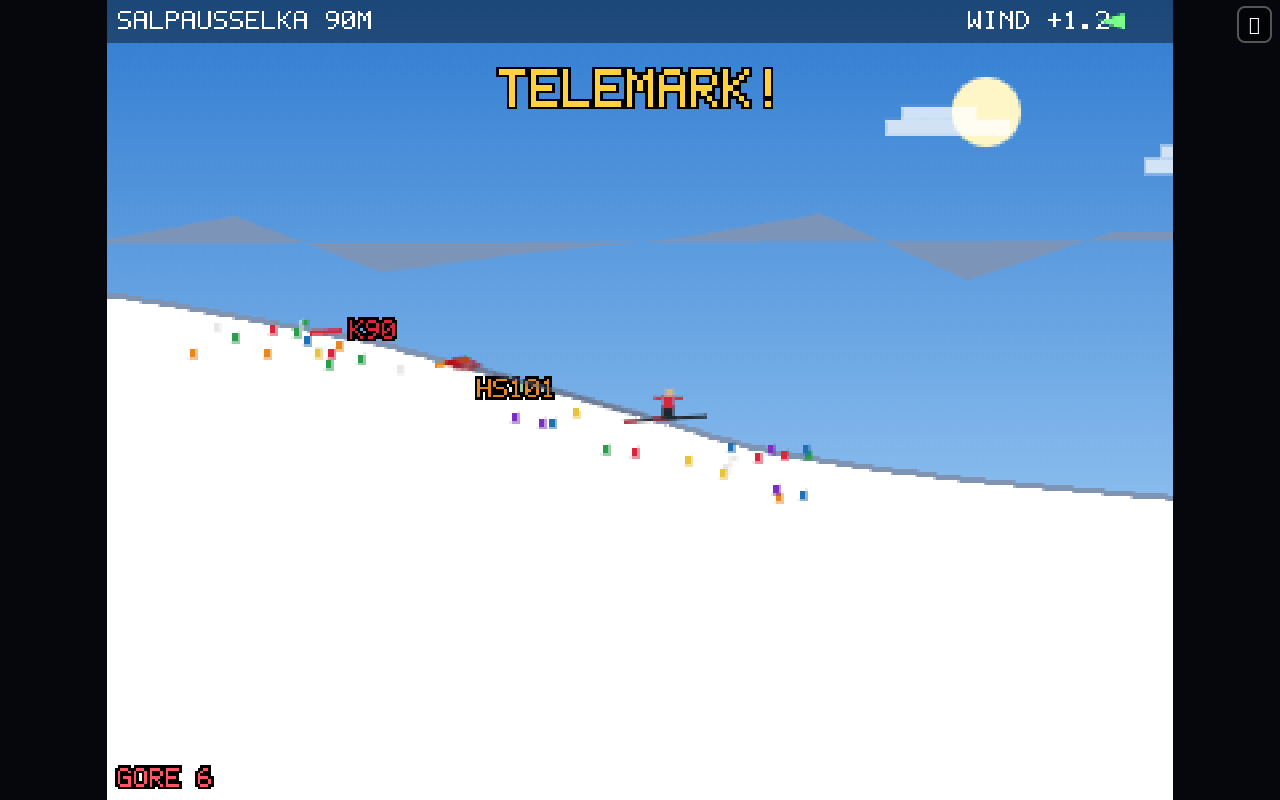
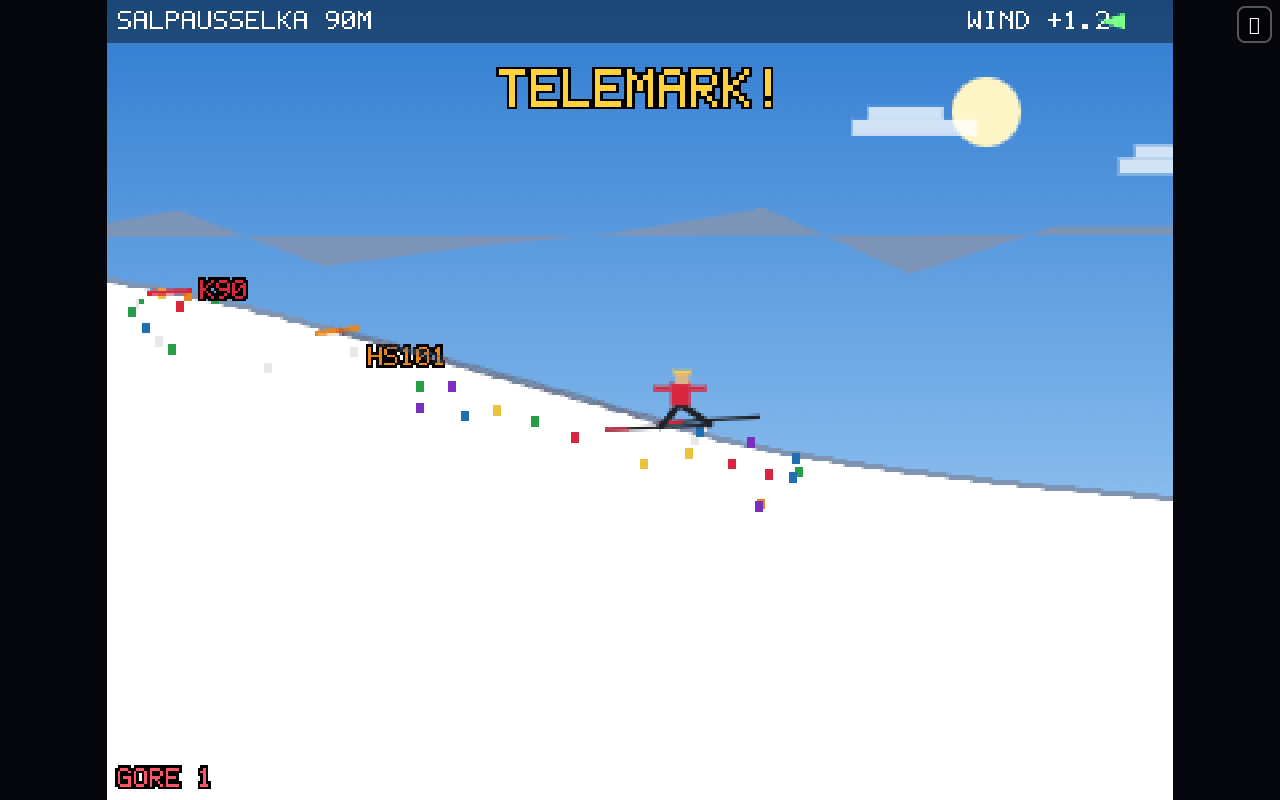
skijump: no explosion on contact, minimal blood, character up close
- crashing (including the over-lean flip) = one whole ragdoll athlete
  tumbling down + skis flying off; no mist clouds, no spray lines, no
  gore burst - just a small sprinkle of drops and a few ground stains;
  crash flash/shake cut hard
- clean landings now leave ~1 drop of blood; the spray at touchdown is
  snow, not meat
- zoomed in further again (K90 view ~67 m) and sprite scaled 2.6x so
  the jumper is unmistakable in every phase (helmet, suit, V-skis)
- telemark is a proper lunge: legs straddled over front/back skis,
  arms wide
- human-pilot sim still lands 15/15; touch + keyboard E2E green

diff --git a/examples/skijump/index.html b/examples/skijump/index.html
@@ -282,15 +282,15 @@ function tune(silent) {
 // ve = exit speed (m/s). Hill landing surface is generated from the
 // trajectory of a perfect jump (physics below), so tangents match by design.
 var HILLS = [
-  { n: 'POIKETON BACKYARD 8m', K: 8, ve: 7.6, zoom: 18, tree: 1.6, crowd: 0.15, dusk: true, tower: 'wood', wind: 0.8, skis: 1.8 },
-  { n: 'JUNNUJARVI 15m', K: 15, ve: 10.3, zoom: 13, tree: 1.3, crowd: 0.35, dusk: false, tower: 'wood', wind: 1.0, skis: 2.0 },
-  { n: 'KESAMAKI 25m', K: 25, ve: 13.2, zoom: 10, tree: 1.0, crowd: 0.55, dusk: false, tower: 'wood', wind: 1.2, skis: 2.1 },
-  { n: 'TORNIO 38m', K: 38, ve: 17.0, zoom: 7.5, tree: 0.9, crowd: 0.7, dusk: false, tower: 'steel', wind: 1.4, skis: 2.2 },
-  { n: 'LAAJIS 70m', K: 70, ve: 21.7, zoom: 5.5, tree: 0.7, crowd: 0.9, dusk: false, tower: 'steel', wind: 1.6, skis: 2.3 },
-  { n: 'SALPAUSSELKA 90m', K: 90, ve: 25.0, zoom: 4.6, tree: 0.55, crowd: 1.2, dusk: false, tower: 'steel', wind: 1.8, skis: 2.4 },
-  { n: 'PUIJO 110m', K: 110, ve: 26.6, zoom: 4.1, tree: 0.5, crowd: 1.35, night: true, tower: 'steel', wind: 1.9, skis: 2.45 },
-  { n: 'OLYMPIAMAKI 125m', K: 125, ve: 27.6, zoom: 3.8, tree: 0.45, crowd: 1.5, dusk: true, tower: 'steel', wind: 2.0, skis: 2.5 },
-  { n: 'PLANICA THE WILD 190m', K: 190, ve: 29.2, zoom: 3.4, tree: 0.4, crowd: 1.8, dusk: false, tower: 'steel', wind: 2.2, skis: 2.5 },
+  { n: 'POIKETON BACKYARD 8m', K: 8, ve: 7.6, zoom: 24, tree: 1.6, crowd: 0.15, dusk: true, tower: 'wood', wind: 0.8, skis: 1.8 },
+  { n: 'JUNNUJARVI 15m', K: 15, ve: 10.3, zoom: 17, tree: 1.3, crowd: 0.35, dusk: false, tower: 'wood', wind: 1.0, skis: 2.0 },
+  { n: 'KESAMAKI 25m', K: 25, ve: 13.2, zoom: 13, tree: 1.0, crowd: 0.55, dusk: false, tower: 'wood', wind: 1.2, skis: 2.1 },
+  { n: 'TORNIO 38m', K: 38, ve: 17.0, zoom: 10, tree: 0.9, crowd: 0.7, dusk: false, tower: 'steel', wind: 1.4, skis: 2.2 },
+  { n: 'LAAJIS 70m', K: 70, ve: 21.7, zoom: 7.2, tree: 0.7, crowd: 0.9, dusk: false, tower: 'steel', wind: 1.6, skis: 2.3 },
+  { n: 'SALPAUSSELKA 90m', K: 90, ve: 25.0, zoom: 6.0, tree: 0.55, crowd: 1.2, dusk: false, tower: 'steel', wind: 1.8, skis: 2.4 },
+  { n: 'PUIJO 110m', K: 110, ve: 26.6, zoom: 5.4, tree: 0.5, crowd: 1.35, night: true, tower: 'steel', wind: 1.9, skis: 2.45 },
+  { n: 'OLYMPIAMAKI 125m', K: 125, ve: 27.6, zoom: 5.0, tree: 0.45, crowd: 1.5, dusk: true, tower: 'steel', wind: 2.0, skis: 2.5 },
+  { n: 'PLANICA THE WILD 190m', K: 190, ve: 29.2, zoom: 4.4, tree: 0.4, crowd: 1.8, dusk: false, tower: 'steel', wind: 2.2, skis: 2.5 },
 ];
 var C_AERO = 0.0130;
 function ClOf(l) {
@@ -597,20 +597,18 @@ function addDecal(x, y, r, alpha) {
     c: GORE_TINTS[(Math.random() * 4) | 0] });
 }
 function goreSplat(x, y, v, scale) {
-  var n = Math.floor(clamp(v * v * 0.05, 4, 40) * scale);
+  // a modest sprinkle of blood on ground contact — garnish, not an explosion
+  var n = Math.floor(clamp(v * 0.25, 2, 10) * scale);
   for (var i = 0; i < n; i++) {
-    var a = Math.PI * (0.15 + Math.random() * 0.7); // up-spray arc (forward+up)
-    var sp = (2 + Math.random() * 8) * clamp(v / 20, 0.4, 1.8);
+    var a = Math.PI * (0.2 + Math.random() * 0.6); // forward-up spray arc
+    var sp = (1 + Math.random() * 4) * clamp(v / 22, 0.4, 1.2);
     blood.push({ x: x, y: y, vx: Math.cos(a) * sp * (Math.random() < 0.7 ? 1 : -0.4),
-      vy: -Math.sin(a) * sp, r: 0.5 + Math.random() * 1.4, life: 3 });
+      vy: -Math.sin(a) * sp, r: 0.4 + Math.random() * 1, life: 2.5 });
   }
-  mist.push({ x: x, y: y, r: 0.6 + scale, grow: 3 * clamp(v / 22, 0.5, 1.5), life: 0.35, a: 0.22 * scale });
-  for (var d = 0; d < 1 + 3 * scale; d++)
-    addDecal(x + (Math.random() - 0.3) * 2.5 * (1 + scale), y - 0.05, (0.2 + Math.random() * 0.9) * (0.6 + scale) * splatScale(), 0.6);
-  sprayLines.push({ x: x, y: y, t: 0, pow: scale * clamp(v / 22, 0.4, 1.2) });
+  for (var d = 0; d < Math.max(1, 2 * scale); d++)
+    addDecal(x + (Math.random() - 0.3) * 2 * (1 + scale), y - 0.05, (0.15 + Math.random() * 0.5) * (0.6 + scale) * splatScale(), 0.5);
   state.goreCount += n;
-  state.shake = Math.min(6, state.shake + 2 * scale);
-  state.flash = Math.max(state.flash, 0.12 * scale);
+  state.shake = Math.min(4, state.shake + scale);
   splatSnd();
   if (navigator.vibrate) navigator.vibrate([40, 20, 60]);
 }
@@ -621,13 +619,12 @@ function crash(kind) {
   if (!state.landed && state.hill) state.dist = state.hill.gAt(state.px).arc;
   var v = Math.hypot(state.pvx, state.pvy);
   var px = state.px, py = state.py;
-  // blood burst (the good part) + a ragdoll body that tumbles and slides —
-  // no body-part fireworks, just one athlete wrecking, skis flying off
-  var n = Math.floor(clamp(v * v * 0.12, 30, 110));
+  // small spray of blood and a ragdoll tumble — NO explosion, the body stays whole
+  var n = Math.floor(clamp(v * 0.7, 8, 20));
   for (var i = 0; i < n; i++) {
-    var a = Math.random() * TAU, sp = (2 + Math.random() * 12) * clamp(v / 22, 0.5, 1.6);
-    blood.push({ x: px, y: py, vx: Math.cos(a) * sp, vy: -Math.abs(Math.sin(a)) * sp - 1,
-      r: 0.5 + Math.random() * 1.8, life: 4 });
+    var a = Math.PI * (0.1 + Math.random() * 0.5), sp = (1 + Math.random() * 5) * clamp(v / 25, 0.5, 1.2);
+    blood.push({ x: px, y: py, vx: Math.cos(a) * sp, vy: -Math.abs(Math.sin(a)) * sp - 0.5,
+      r: 0.4 + Math.random() * 1.1, life: 3 });
   }
   parts.push({
     x: px, y: py - 0.3, vx: state.pvx * 0.55 + 1, vy: clamp(-state.pvy * 0.2, 0.5, 4),
@@ -645,13 +642,10 @@ function crash(kind) {
     rest: false, settle: 0, col: '#20242a',
   });
   state.partCount = 3;
-  for (var d = 0; d < 6; d++) addDecal(px + (Math.random() - 0.4) * 4, py - 0.05, (0.4 + Math.random() * 1.6) * splatScale(), 0.7);
-  mist.push({ x: px, y: py - 0.5, r: 1, grow: 4, life: 0.45, a: 0.3 });
-  sprayLines.push({ x: px, y: py, t: 0, pow: 1.4 });
-  goreSplat(px, py, v, 0.5);
+  for (var d = 0; d < 3; d++) addDecal(px + (Math.random() - 0.4) * 3, py - 0.05, (0.2 + Math.random() * 0.7) * splatScale(), 0.5);
   setMsg(kind, 2.2);
-  state.shake = 7; state.flash = 0.4;
-  state.timeScale = 0.32;
+  state.shake = 4; state.flash = 0.15;
+  state.timeScale = 0.35;
   state.goreCount += n;
   state.goreTotal = (state.goreTotal || 0) + state.goreCount;
   save();
@@ -874,8 +868,8 @@ function update(dtReal) {
       state.px += state.pvx * dt;
     }
     state.py = state.hill.gAt(state.px).y;
-    // ski tracks carved behind + a smear of blood off the skis
-    if (Math.random() < 0.25) addDecal(state.px - 0.2, g.y - 0.03, 0.1 + Math.random() * 0.2, 0.35);
+    // ski tracks carved behind + a faint trickle off the skis
+    if (Math.random() < 0.2) addDecal(state.px - 0.2, g.y - 0.03, 0.08 + Math.random() * 0.15, 0.3);
     if (Math.random() < 0.7) snowP.push({ x: state.px, y: state.py, vx: -2 - Math.random() * 3, vy: -Math.random() * 2, life: 0.5, r: 0.1 + Math.random() * 0.15 });
     if (windNode) windNode.g.gain.value = clamp(v / 50, 0, 0.12);
     state.camX = lerp(state.camX, state.px + 11 / state.zoom, 0.1);
@@ -897,19 +891,19 @@ function update(dtReal) {
         var rest = pt.kind === 'body' ? 0.12 : 0.35; // the body thuds, it does not pogo
         if (Math.abs(pt.vy) > 1.2) {
           pt.vy = -pt.vy * rest; pt.vx *= pt.kind === 'body' ? 0.75 : 0.6; pt.vrot *= 0.5;
-          if (Math.random() < 0.4) addDecal(pt.x, pt.y - 0.05, 0.15 + Math.random() * 0.4, 0.5);
-          if (Math.random() < 0.3) blood.push({ x: pt.x, y: pt.y, vx: (Math.random() - 0.5) * 3, vy: -Math.random() * 4, r: 0.5 + Math.random(), life: 2 });
+          if (Math.random() < 0.5) addDecal(pt.x, pt.y - 0.05, 0.1 + Math.random() * 0.25, 0.4);
+          if (Math.random() < 0.25) blood.push({ x: pt.x, y: pt.y, vx: (Math.random() - 0.5) * 2, vy: -Math.random() * 2.5, r: 0.4 + Math.random() * 0.5, life: 2 });
         } else { pt.vy = 0; pt.vx *= 0.92; pt.vrot *= 0.9; pt.settle += dt; if (pt.settle > 0.7) pt.rest = true; }
       }
-      // blood drips off gibs
-      if (Math.random() < 0.08) blood.push({ x: pt.x, y: pt.y, vx: 0, vy: -0.5, r: 0.4, life: 1.5 });
+      // occasional drip off the ragdoll
+      if (Math.random() < 0.04) blood.push({ x: pt.x, y: pt.y, vx: 0, vy: -0.5, r: 0.4, life: 1.5 });
     }
     // continue body slide point
     var g3 = state.hill.gAt(state.px);
     if (state.px < state.hill.xs[state.hill.xs.length - 1]) {
       state.px += Math.max(0, state.pvx) * 0.5 * dt;
       state.py = g3.y;
-      if (Math.random() < 0.8) addDecal(state.px, g3.y - 0.05, 0.3 + Math.random() * 0.9, 0.6);
+      if (Math.random() < 0.3) addDecal(state.px, g3.y - 0.05, 0.12 + Math.random() * 0.35, 0.4);
     }
     state.camX = lerp(state.camX, state.px + 3 / state.zoom, 0.06);
     state.camY = lerp(state.camY, state.py + 2 / state.zoom, 0.06);
@@ -1263,7 +1257,7 @@ function drawFloods() {
 function drawJumper() {
   if (state.crashed) return;
   var z = PX, H = state.hill.H;
-  var s = clamp(z * 1.8, 3.2, 12); // sprite meters -> px (slightly oversized for pixel-read)
+  var s = clamp(z * 2.6, 5, 18); // sprite meters -> px (character clearly readable)
   var p = W2S(state.px, state.py), cx = p[0], cy = p[1];
   var sl = Math.max(4, H.skis * s);
   var suit = SUITS[state.suit], hair = HAIRS[state.hair], pants = PANTS[state.pants];
@@ -1310,12 +1304,18 @@ function drawJumper() {
   } else if (pose === 'slide' && state.landed) {
     var ang3 = state.hill.gAt(state.px).a * 0.5;
     if (state.telemark) {
-      ski(cx - sl * 0.3, cy, ang3 * 0.5); ski(cx + sl * 0.25, cy - s * 0.1, ang3 * 0.35);
-      X.fillStyle = pants; X.fillRect(cx - s * 0.2, cy - s * 0.65, s * 0.5, s * 0.5);
-      X.fillStyle = suit; X.fillRect(cx - s * 0.15, cy - s * 1.15, s * 0.45, s * 0.55);
-      X.fillStyle = hair; X.fillRect(cx - s * 0.05, cy - s * 1.45, s * 0.35, s * 0.32);
-      X.fillStyle = suit; X.fillRect(cx - s * 0.55, cy - s * 1.1, s * 0.35, s * 0.12);
-      X.fillRect(cx + s * 0.35, cy - s * 1.1, s * 0.35, s * 0.12);
+      // telemark lunge: front ski forward, back knee low, arms wide
+      ski(cx + sl * 0.3, cy - s * 0.12, ang3 * 0.45); ski(cx - sl * 0.24, cy + s * 0.06, ang3 * 0.3);
+      X.strokeStyle = pants; X.lineWidth = Math.max(1, s * 0.16); X.lineCap = 'round';
+      X.beginPath();
+      X.moveTo(cx, cy - s * 0.55); X.lineTo(cx + sl * 0.3, cy - s * 0.05);
+      X.moveTo(cx, cy - s * 0.55); X.lineTo(cx - sl * 0.2, cy + s * 0.02);
+      X.stroke(); X.lineCap = 'butt';
+      X.fillStyle = suit; X.fillRect(cx - s * 0.22, cy - s * 1.05, s * 0.46, s * 0.55);
+      X.fillStyle = hair; X.fillRect(cx - s * 0.12, cy - s * 1.32, s * 0.34, s * 0.3);
+      X.fillStyle = '#ffd23c'; X.fillRect(cx - s * 0.16, cy - s * 1.36, s * 0.42, Math.max(1, s * 0.09));
+      X.fillStyle = suit; X.fillRect(cx - s * 0.62, cy - s * 0.98, s * 0.4, s * 0.13);
+      X.fillRect(cx + s * 0.22, cy - s * 0.98, s * 0.4, s * 0.13);
     } else {
       ski(cx, cy, ang3 * 0.4);
       X.fillStyle = pants; X.fillRect(cx - s * 0.16, cy - s * 0.8, s * 0.44, s * 0.55);
